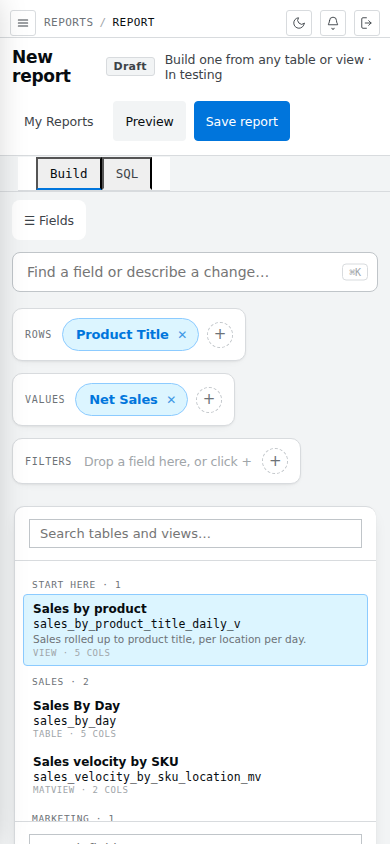
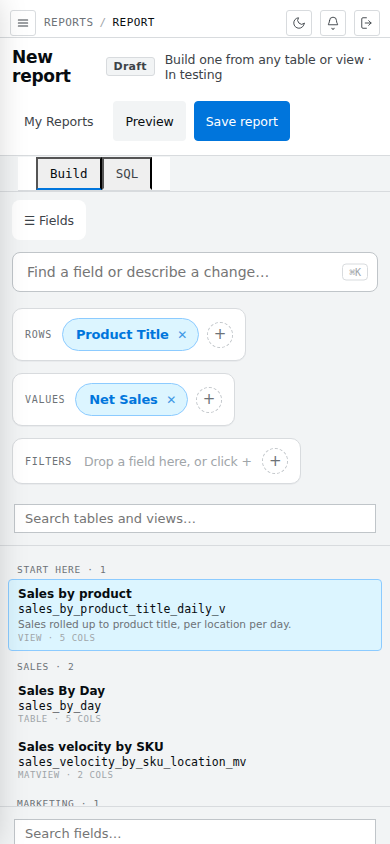
Report builder UX pass 4: flatten to match mockup density
Pass 3 over-corrected on "still looks unpolished" feedback by giving nearly
every section (rail, each of five rule editors individually, table, chart,
params) its own floating white card with a heavy two-layer shadow. Against
the reference mockups that reads busier and boxier, not calmer -- the
mockups separate sections with thin borders and whitespace, reserving any
shadow for one or two genuinely elevated surfaces.

This pass reverses that:
- .rb-card drops back to border + radius only, no shadow by default
  (.rb-card--lift kept for the rare case that still wants one)
- the rail goes back to a flat panel with a plain right border -- no card,
  no white background, no margin
- Summarise, Date range, Filters, Totals, Sort and the generated-SQL
  disclosure are consolidated into one .rb-editor-group panel with internal
  dividers, replacing five separately-shadowed boxes
- only the chip row and the chart card keep a hairline shadow
  (var(--bcn-shadow), beacon's own token -- not the two-layer mix)
- the results table is fully flat (no border, no shadow) so it reads as
  part of the canvas rather than another floating box

Full 37-suite v3 test run passes (one `dashboard` failure on the first pass
was a flake under load -- reran in isolation and in the full suite, both
green).

Screenshots in docs/ops/screenshots/report-builder-ux/ updated for this
pass; README's "what changed each pass" section extended to document why
pass 3 wasn't enough and what pass 4 changes.
[…]

Changed region(s): [[0.0308, 0.5853, 0.9846, 1.0], [0.9231, 0.6161, 0.9538, 0.6469]]

diff --git a/v3/dashboard.css b/v3/dashboard.css
@@ -403,17 +403,21 @@
    shadow" departure v3/README.md already documents for a dashboard tile,
    reused verbatim (including its exact shadow formula, mixed from
    --bcn-band so it stays theme-correct) rather than invented again here. */
-.rb-layout { flex: 1; min-height: 0; display: flex; gap: 14px; padding: 14px 14px 0; background: var(--bcn-sunken); }
-.rb-card {
-  background: var(--bcn-surface); border: 1px solid var(--bcn-border); border-radius: 10px;
-  box-shadow:
-    0 1px 2px color-mix(in srgb, var(--bcn-band) 6%, transparent),
-    0 6px 18px -8px color-mix(in srgb, var(--bcn-band) 18%, transparent);
-}
+.rb-layout { flex: 1; min-height: 0; display: flex; gap: 0; background: var(--bcn-sunken); }
+/* Flat by design, not by omission: the mockups this page is built from use
+   almost no shadow at all -- a 1px border and the white-card-on-light-canvas
+   contrast do the separating. The three-layer "card soup" the previous pass
+   built (rail, every collapsed editor, the table, parameters -- each its
+   own bordered box with a visible drop shadow) read as busy and uneven
+   precisely because there were so many of them, each announcing itself.
+   Only the chip boxes and the chart card keep any lift at all now, and it
+   is beacon's own hairline --bcn-shadow, not an invented one. */
+.rb-card { background: var(--bcn-surface); border: 1px solid var(--bcn-border); border-radius: 10px; }
+.rb-card--lift { box-shadow: var(--bcn-shadow); }
 
 .rb-rail {
-  width: 300px; flex-shrink: 0; display: flex; flex-direction: column;
-  min-height: 0; margin-bottom: 14px;
+  width: 280px; flex-shrink: 0; display: flex; flex-direction: column;
+  min-height: 0; border-right: 1px solid var(--bcn-border);
 }
 .rb-rail-head { padding: 12px 14px; border-bottom: 1px solid var(--bcn-border); flex-shrink: 0; }
 .rb-rail-list { flex: 1; min-height: 0; overflow-y: auto; padding: 8px; }
@@ -422,7 +426,7 @@
   padding: 7px 9px; border: 1px solid transparent; border-radius: var(--bcn-radius);
   background: transparent; cursor: pointer; font: inherit;
 }
-.rb-src:hover { background: var(--bcn-sunken); border-color: var(--bcn-border); }
+.rb-src:hover { background: var(--bcn-surface); border-color: var(--bcn-border); }
 .rb-src.is-active { background: var(--bcn-accent-soft); border-color: var(--bcn-accent-border); }
 .rb-src-name { font-family: var(--bcn-mono); font-size: 11.5px; color: var(--bcn-ink); word-break: break-all; }
 .rb-src-desc {
@@ -532,12 +536,13 @@
 /* The table gets the same card treatment as the chart above it, rather
    than sitting directly on the canvas -- two floating cards, not one card
    and one plain region. */
+/* Flat on purpose -- the chart above it is the one card in this section.
+   A second bordered, shadowed box immediately below it read as two tiles
+   stacked rather than one continuous preview; spacing (rb-preview-chart's
+   own margin-bottom) is what separates them instead. */
 .rb-preview-body {
-  flex: 1; min-height: 120px; overflow: auto; padding: 10px 16px 14px;
-  background: var(--bcn-surface); border: 1px solid var(--bcn-border); border-radius: 10px;
-  box-shadow:
-    0 1px 2px color-mix(in srgb, var(--bcn-band) 6%, transparent),
-    0 6px 18px -8px color-mix(in srgb, var(--bcn-band) 18%, transparent);
+  flex: 1; min-height: 120px; overflow: auto; padding: 4px 4px 14px;
+  background: var(--bcn-surface); border-radius: 10px;
 }
 .rb-preview-more { display: flex; align-items: center; gap: 10px; padding: 10px 0 2px; }
 
@@ -810,10 +815,7 @@
 .rb-chipgroup {
   display: flex; align-items: center; gap: 8px; flex-wrap: wrap;
   padding: 9px 12px; border-radius: 10px; border: 1px solid var(--bcn-border);
-  background: var(--bcn-surface); min-height: 44px;
-  box-shadow:
-    0 1px 2px color-mix(in srgb, var(--bcn-band) 5%, transparent),
-    0 4px 12px -8px color-mix(in srgb, var(--bcn-band) 14%, transparent);
+  background: var(--bcn-surface); min-height: 44px; box-shadow: var(--bcn-shadow);
 }
 .rb-chipgroup-label {
   font-family: var(--bcn-mono); font-size: 10px; text-transform: uppercase; letter-spacing: .07em;
@@ -857,51 +859,53 @@
 }
 .rb-details[open] summary::before { transform: rotate(90deg); }
 
-.rb-source-head { gap: 8px; padding: 14px 16px; }
+/* No card here -- the mockups this page follows show a plain title and an
+   expandable "Details" line, not a bordered box, for what is really just a
+   caption over the panel below it. */
+.rb-source-head { display: flex; flex-direction: column; gap: 6px; padding: 2px 2px 4px; }
 .rb-source-title { font-size: 15px; font-weight: 700; color: var(--bcn-ink); text-transform: none; letter-spacing: 0; }
+
+/* ── The one panel for everything else ─────────────────────────────────
+   Summarise, Date range, Filters, Totals, Sort/limit and the generated SQL
+   used to each be their own bordered, shadowed box -- five separate cards
+   stacked down the page, each announcing its own edge. They are one card
+   now: .rb-editor-group carries the single border/radius, and each row
+   (the always-visible Summarise toggle, then each collapsed <details>) is
+   divided from the next by a plain bottom border instead of a gap between
+   boxes. Closed by default the moment a chip already says what is inside
+   (renderBuild's secOpen()) -- the chip bar is where these are READ, this
+   is only where they are EDITED. */
+.rb-editor-group { display: flex; flex-direction: column; overflow: hidden; }
+.rb-editor-row { padding: 12px 14px; border-bottom: 1px solid var(--bcn-border); }
+.rb-editor-group > *:last-child { border-bottom: none; }
 .rb-summarise-toggle {
-  display: flex; align-items: center; gap: 8px; align-self: flex-start; cursor: pointer;
-  font-size: 13px; font-weight: 600; color: var(--bcn-ink); margin-top: 2px;
+  display: flex; align-items: center; gap: 8px; cursor: pointer;
+  font-size: 13px; font-weight: 600; color: var(--bcn-ink);
 }
 .rb-summarise-toggle input { width: 16px; height: 16px; accent-color: var(--bcn-accent); cursor: pointer; }
 
-/* ── Collapsed editors (Filters, Totals, Date range, Sort, SQL) ────────
-   Closed by default the moment there is a chip already saying what is in
-   them (renderBuild's secOpen()); the chip bar is where these are READ,
-   this is only where they are EDITED. Ordinary beacon density inside --
-   these are occasional-use, not the page's hero controls. */
-.rb-editor {
-  border: 1px solid var(--bcn-border); border-radius: 8px; background: var(--bcn-surface);
-  padding: 0; overflow: hidden;
-}
+.rb-editor { border-bottom: 1px solid var(--bcn-border); }
+.rb-editor:last-child { border-bottom: none; }
 .rb-editor summary {
   cursor: pointer; padding: 12px 14px; font-size: 12.5px; font-weight: 600; color: var(--bcn-ink-2);
-  list-style: none; display: flex; align-items: center; gap: 8px; border-radius: 10px;
+  list-style: none; display: flex; align-items: center; gap: 8px;
 }
 .rb-editor summary:hover { background: var(--bcn-sunken); }
-.rb-editor[open] summary:hover { background: transparent; }
 .rb-editor summary::-webkit-details-marker { display: none; }
 .rb-editor summary::before {
   content: '▸'; display: inline-block; font-size: 10px; color: var(--bcn-ink-4);
   transition: transform .12s ease; flex-shrink: 0;
 }
 .rb-editor[open] summary::before { transform: rotate(90deg); }
-.rb-editor[open] summary { border-bottom: 1px solid var(--bcn-border); border-radius: 10px 10px 0 0; }
+.rb-editor[open] summary { border-bottom: 1px solid var(--bcn-border); }
 .rb-editor-body { padding: 12px 14px 14px; display: flex; flex-direction: column; gap: 8px; }
 
-/* Nothing upstream of this ever gave #buildBody's own direct children any
-   vertical rhythm -- .rb-panes' gap is between #paneBuild and #paneSql, not
-   between what is inside #paneBuild. It went unnoticed while the field
-   cloud and always-open rows supplied their own visual bulk; collapsed
-   <details> supply almost none, so a plain stack of them reads as one
-   cramped block with no breathing room between "sections" that are, in
-   fact, unrelated controls. */
-/* Capped rather than stretched to .rb-main's full width: an editor's
-   content (two dropdowns, a handful of rule rows) is nowhere near as wide
-   as the space next to the rail, and a full-width white card around that
-   little content read as a mostly-empty box. The rest of the canvas stays
-   visible beside it instead. */
-#buildBody { display: flex; flex-direction: column; gap: 12px; max-width: 640px; }
+/* Capped rather than stretched to .rb-main's full width: the panel's
+   content (a toggle, a couple of dropdowns, a handful of rule rows) is
+   nowhere near as wide as the space next to the rail, and a full-width
+   white card around that little content read as a mostly-empty box. The
+   rest of the canvas stays visible beside it instead. */
+#buildBody { display: flex; flex-direction: column; gap: 16px; max-width: 640px; }
 
 .rb-rail.is-collapsed { width: 0; border: none; margin: 0; box-shadow: none; overflow: hidden; }
 .rb-field-browser { border-top: 1px solid var(--bcn-border); display: flex; flex-direction: column; min-height: 0; flex: 1; }
@@ -911,7 +915,7 @@
   padding: 6px 9px; border: 1px solid transparent; border-radius: var(--bcn-radius-sm);
   background: transparent; cursor: pointer; font: inherit; font-size: 12px; color: var(--bcn-ink-2);
 }
-.rb-field-row:hover { background: var(--bcn-sunken); border-color: var(--bcn-border); }
+.rb-field-row:hover { background: var(--bcn-surface); border-color: var(--bcn-border); }
 .rb-field-row.is-on { color: var(--bcn-accent); background: var(--bcn-accent-soft); }
 .rb-field-icon {
   font-family: var(--bcn-mono); font-size: 10px; color: var(--bcn-ink-4); width: 16px; text-align: center; flex-shrink: 0;
@@ -957,9 +961,7 @@
   flex: 1 1 340px; min-height: 260px; margin-bottom: 14px; padding: 14px 16px 10px;
   display: flex; flex-direction: column; gap: 8px;
   background: var(--bcn-surface); border: 1px solid var(--bcn-border); border-radius: 10px;
-  box-shadow:
-    0 1px 2px color-mix(in srgb, var(--bcn-band) 6%, transparent),
-    0 6px 18px -8px color-mix(in srgb, var(--bcn-band) 18%, transparent);
+  box-shadow: var(--bcn-shadow);
 }
 .rb-preview-chart[hidden] { display: none; }
 .rb-preview-chart .dw-chart { flex: 1; min-height: 0; }

diff --git a/v3/js/report-builder-ui.js b/v3/js/report-builder-ui.js
@@ -215,8 +215,8 @@
 
     el('buildBody').innerHTML = `
       ${mvNote}
-      <div class="rb-section rb-source-head rb-card">
-        <span class="rb-section-title rb-source-title">${esc(RB.friendlyRelName(source.relname))}</span>
+      <div class="rb-source-head">
+        <span class="rb-source-title">${esc(RB.friendlyRelName(source.relname))}</span>
         <details class="rb-details">
           <summary>${source.description
             ? esc(source.description.split(/(?<=[.!?])\s+/)[0]) + (/[.!?]\s+\S/.test(source.description) ? ' — details' : '')
@@ -224,85 +224,95 @@
           ${source.description ? `<p class="rb-note">${esc(source.description)}</p>` : ''}
           <span class="rb-note rb-mono-hint">${esc(source.relname)} · ${esc(source.relkind)}</span>
         </details>
-        <label class="rb-summarise-toggle">
-          <input type="checkbox" id="chkSummarise" ${cfg.summarise ? 'checked' : ''} />
-          <span>Summarise (group and total)</span>
-        </label>
       </div>
 
-      ${dateCols().length ? `
-      <details class="rb-editor" id="secDate"${dateOpen ? ' open' : ''}>
-        <summary>Date range${cfg.dateColumn ? ` · ${esc((RB.DATE_RANGES.find((r) => r.id === cfg.dateRange) || {}).label || 'custom')}` : ' · none'}</summary>
-        <div class="rb-editor-body">
-          <div class="rb-row">
-            <div class="bcn-field-group">
-              <label class="bcn-label" for="selDateCol">Date column</label>
-              <select class="bcn-field" id="selDateCol">${opts(dateCols(), cfg.dateColumn, 'None')}</select>
+      <!-- One bordered panel for every remaining control, rather than each
+           getting its own floating card -- Summarise is this panel's own
+           always-visible first row, and everything below it is a collapsed
+           <details> sharing the same border instead of five separate boxes
+           each announcing themselves with their own edge and shadow. -->
+      <div class="rb-editor-group rb-card">
+        <div class="rb-editor-row">
+          <label class="rb-summarise-toggle">
+            <input type="checkbox" id="chkSummarise" ${cfg.summarise ? 'checked' : ''} />
+            <span>Summarise (group and total)</span>
+          </label>
+        </div>
+
+        ${dateCols().length ? `
+        <details class="rb-editor" id="secDate"${dateOpen ? ' open' : ''}>
+          <summary>Date range${cfg.dateColumn ? ` · ${esc((RB.DATE_RANGES.find((r) => r.id === cfg.dateRange) || {}).label || 'custom')}` : ' · none'}</summary>
+          <div class="rb-editor-body">
+            <div class="rb-row">
+              <div class="bcn-field-group">
+                <label class="bcn-label" for="selDateCol">Date column</label>
+                <select class="bcn-field" id="selDateCol">${opts(dateCols(), cfg.dateColumn, 'None')}</select>
+              </div>
+              <div class="bcn-field-group">
+                <label class="bcn-label" for="selDateRange">Range</label>
+                <select class="bcn-field" id="selDateRange">
+                  ${RB.DATE_RANGES.map((r) => `<option value="${r.id}"${r.id === cfg.dateRange ? ' selected' : ''}>${esc(r.label)}</option>`).join('')}
+                </select>
+              </div>
             </div>
-            <div class="bcn-field-group">
-              <label class="bcn-label" for="selDateRange">Range</label>
-              <select class="bcn-field" id="selDateRange">
-                ${RB.DATE_RANGES.map((r) => `<option value="${r.id}"${r.id === cfg.dateRange ? ' selected' : ''}>${esc(r.label)}</option>`).join('')}
-              </select>
+            ${!cfg.dateColumn ? '<p class="rb-note">No date window yet — pick a column and a range on purpose. Nothing is filtered by default.</p>' : ''}
+          </div>
+        </details>` : ''}
+
+        <details class="rb-editor" id="secFilters"${filtersOpen ? ' open' : ''}>
+          <summary>Filters${cfg.filters.length ? ` · ${cfg.filters.length}` : ''}</summary>
+          <div class="rb-editor-body">
+            ${filterRows || '<p class="rb-note">No filters.</p>'}
+            <button type="button" class="bcn-btn bcn-btn--ghost" id="btnAddFilter" style="align-self:flex-start">+ Add a filter</button>
+          </div>
+        </details>
+
+        ${cfg.summarise ? `
+        <details class="rb-editor" id="secMeasures"${measuresOpen ? ' open' : ''}>
+          <summary>Totals${cfg.measures.length ? ` · ${cfg.measures.length}` : ''}</summary>
+          <div class="rb-editor-body">
+            ${measureRows || '<p class="rb-note">No totals yet — add one.</p>'}
+            <div class="rb-row">
+              <button type="button" class="bcn-btn bcn-btn--ghost" id="btnAddMeasure">+ Add a total</button>
+              <button type="button" class="bcn-btn bcn-btn--ghost" id="btnAddCalc">+ Add a calculation</button>
+            </div>
+            <p class="rb-note">A calculation is one total over another — ROAS is sales ÷ spend, and no column holds it.
+              Division is guarded, so a zero denominator leaves the cell empty rather than failing the query.</p>
+          </div>
+        </details>` : ''}
+
+        <details class="rb-editor" id="secSort">
+          <summary>Sort and limit</summary>
+          <div class="rb-editor-body">
+            <div class="rb-row">
+              <div class="bcn-field-group">
+                <label class="bcn-label" for="selSort">Sort by</label>
+                <select class="bcn-field" id="selSort">
+                  ${opts(cfg.summarise ? cols.map((c) => c.name).concat(aliasList) : cols, cfg.sortColumn, 'Query order')}
+                </select>
+              </div>
+              <div class="bcn-field-group">
+                <label class="bcn-label" for="selSortDir">Direction</label>
+                <select class="bcn-field" id="selSortDir">
+                  <option value="desc"${cfg.sortDir === 'desc' ? ' selected' : ''}>Highest first</option>
+                  <option value="asc"${cfg.sortDir === 'asc' ? ' selected' : ''}>Lowest first</option>
+                </select>
+              </div>
+              <div class="bcn-field-group">
+                <label class="bcn-label" for="inpLimit">Limit</label>
+                <input class="bcn-field bcn-field--mono" id="inpLimit" type="number" min="0" max="1000" value="${Number(cfg.limit) || 0}" />
+              </div>
             </div>
           </div>
-          ${!cfg.dateColumn ? '<p class="rb-note">No date window yet — pick a column and a range on purpose. Nothing is filtered by default.</p>' : ''}
-        </div>
-      </details>` : ''}
+        </details>
 
-      <details class="rb-editor" id="secFilters"${filtersOpen ? ' open' : ''}>
-        <summary>Filters${cfg.filters.length ? ` · ${cfg.filters.length}` : ''}</summary>
-        <div class="rb-editor-body">
-          ${filterRows || '<p class="rb-note">No filters.</p>'}
-          <button type="button" class="bcn-btn bcn-btn--ghost" id="btnAddFilter" style="align-self:flex-start">+ Add a filter</button>
-        </div>
-      </details>
-
-      ${cfg.summarise ? `
-      <details class="rb-editor" id="secMeasures"${measuresOpen ? ' open' : ''}>
-        <summary>Totals${cfg.measures.length ? ` · ${cfg.measures.length}` : ''}</summary>
-        <div class="rb-editor-body">
-          ${measureRows || '<p class="rb-note">No totals yet — add one.</p>'}
-          <div class="rb-row">
-            <button type="button" class="bcn-btn bcn-btn--ghost" id="btnAddMeasure">+ Add a total</button>
-            <button type="button" class="bcn-btn bcn-btn--ghost" id="btnAddCalc">+ Add a calculation</button>
+        <details class="rb-editor" id="secGenSql">
+          <summary>SQL this generates</summary>
+          <div class="rb-editor-body">
+            <pre class="rb-generated" id="genSql">${esc(RB.buildSql(source, cfg) || '-- choose at least one total to summarise')}</pre>
           </div>
-          <p class="rb-note">A calculation is one total over another — ROAS is sales ÷ spend, and no column holds it.
-            Division is guarded, so a zero denominator leaves the cell empty rather than failing the query.</p>
-        </div>
-      </details>` : ''}
-
-      <details class="rb-editor" id="secSort">
-        <summary>Sort and limit</summary>
-        <div class="rb-editor-body">
-          <div class="rb-row">
-            <div class="bcn-field-group">
-              <label class="bcn-label" for="selSort">Sort by</label>
-              <select class="bcn-field" id="selSort">
-                ${opts(cfg.summarise ? cols.map((c) => c.name).concat(aliasList) : cols, cfg.sortColumn, 'Query order')}
-              </select>
-            </div>
-            <div class="bcn-field-group">
-              <label class="bcn-label" for="selSortDir">Direction</label>
-              <select class="bcn-field" id="selSortDir">
-                <option value="desc"${cfg.sortDir === 'desc' ? ' selected' : ''}>Highest first</option>
-                <option value="asc"${cfg.sortDir === 'asc' ? ' selected' : ''}>Lowest first</option>
-              </select>
-            </div>
-            <div class="bcn-field-group">
-              <label class="bcn-label" for="inpLimit">Limit</label>
-              <input class="bcn-field bcn-field--mono" id="inpLimit" type="number" min="0" max="1000" value="${Number(cfg.limit) || 0}" />
-            </div>
-          </div>
-        </div>
-      </details>
-
-      <details class="rb-editor" id="secGenSql">
-        <summary>SQL this generates</summary>
-        <div class="rb-editor-body">
-          <pre class="rb-generated" id="genSql">${esc(RB.buildSql(source, cfg) || '-- choose at least one total to summarise')}</pre>
-        </div>
-      </details>`;
+        </details>
+      </div>`;
     // toggle does not reliably bubble, so each <details> gets its own
     // listener rather than one delegated on #buildBody -- there are at
     // most six of these, so the cost of re-attaching every render is nothing.

diff --git a/v3/report-builder.html b/v3/report-builder.html
@@ -70,7 +70,7 @@
     <div class="rb-layout">
       <!-- Source browser: silo_chat_schema_catalog, which already exists to
            feed Ask SILO and works just as well as a picker. -->
-      <aside class="rb-rail rb-card" id="railPanel">
+      <aside class="rb-rail" id="railPanel">
         <div class="rb-rail-head">
           <input class="bcn-field" id="srcSearch" type="search" placeholder="Search tables and views…" />
         </div>

diff --git a/docs/ops/screenshots/report-builder-ux/README.md b/docs/ops/screenshots/report-builder-ux/README.md
@@ -9,7 +9,7 @@ grouped by product title, summed to Net Sales — rendered by the real
 `/v3/report-builder.html` against the test suite's stubbed Supabase. No real
 company data is in any of them; the two rows in the preview are fixture rows.
 
-This went through three passes, each landing after the previous one was
+This went through four passes, each landing after the previous one was
 reviewed and found wanting. Recorded here rather than squashed away, because
 "what did we already try and why wasn't it enough" is exactly the thing a
 screenshot folder should answer a year from now.
@@ -17,16 +17,17 @@ screenshot folder should answer a year from now.
 | File | What it shows |
 |---|---|
 | `before-desktop.png` | origin/main. One always-open form: a raw relname list with no grouping beyond kind, a field cloud with a `text`/`numeric`/`bigint` badge on every row, every measure/filter row always expanded, and — a bug this PR also fixes — a measure row whose `select`s each claimed the full row width and wrapped onto five stacked lines instead of one. Everything flush against hairline borders, no depth, no grouping. Table-only preview. |
-| `after-desktop.png` | The same, configured report, current state. A large Rows/Values/Filters chip bar reading straight off the config (`Net Sales`, not `Sum of Net Sales` — the aggregation is implicit unless it's non-default); the field-type grid gone in favour of the rail's field browser (icon instead of a badge); Totals/Filters/Date/Sort/SQL collapsed behind a labelled chevron, opening only while empty or just edited; a segmented Chart/Table control; a titled chart card above a table card. The page reads as a set of floating cards on a light canvas — border-radius, a two-layer soft shadow, real gaps between them — reusing the exact shadow formula `v3/README.md` already documents for a dashboard tile, rather than the flush hairline-bordered strips of passes one and two. |
-| `after-desktop-empty.png` | The same source, nothing configured yet. Compact by default: Date range and Filters sit open only because they are genuinely empty (a rolling window or a filter picked "by default" was the exact thing item 5 of the brief called out as misleading), the field browser and chips are the only place a field is added, and the whole build side settles into a handful of short cards instead of one long form. |
-| `after-desktop-sql.png` | The SQL tab. The generated SQL sits in its own wider card (code wants room a chip list does not), with Run query beside it — this is the "collapsible, resizable dock" from item 4, styled to read as one now rather than a plain textarea in a tab pane. |
-| `before-phone.png` / `after-phone.png` | 390px. The rail's height cap was sized for a bare source list; adding the field browser without also bounding it independently made rail content spill past its box and overlap the page below it — fixed by giving the source list and the field browser their own scrollports. The after state also shows the chip bar stacking into full-width cards rather than wrapping awkwardly. |
+| `after-desktop.png` | The same, configured report, current state (pass 4). A Rows/Values/Filters chip bar reading straight off the config (`Net Sales`, not `Sum of Net Sales` — the aggregation is implicit unless it's non-default); the field-type grid gone in favour of the rail's field browser (icon instead of a badge); Summarise/Totals/Filters/Date/Sort/SQL now live in **one bordered panel** with a divider between each row, rather than as separate floating cards; a segmented Chart/Table control; a chart card above a flat table. The canvas is flat and quiet — a plain gray background, thin borders, one hairline shadow reserved for the chip row and the chart — matching the calmer, less boxy density of the mockups rather than pass 3's stack of individually-shadowed cards. |
+| `after-desktop-empty.png` | The same source, nothing configured yet. Compact by default: Date range and Filters sit open only because they are genuinely empty (a rolling window or a filter picked "by default" was the exact thing item 5 of the brief called out as misleading), the field browser and chips are the only place a field is added, and the whole build side settles into one short panel instead of one long form or a stack of separate cards. |
+| `after-desktop-sql.png` | The SQL tab. The generated SQL sits in its own wider, flat card (code wants room a chip list does not), with Run query beside it — this is the "collapsible, resizable dock" from item 4, styled to read as one calm surface rather than a plain textarea in a tab pane or a heavily-shadowed box. |
+| `before-phone.png` / `after-phone.png` | 390px. The rail's height cap was sized for a bare source list; adding the field browser without also bounding it independently made rail content spill past its box and overlap the page below it — fixed by giving the source list and the field browser their own scrollports. The after state also shows the chip bar stacking into full-width cards rather than wrapping awkwardly, and the flat single-panel editor group carrying over cleanly to a narrow screen. |
 
 ## What changed each pass, briefly
 
 1. **Pass 1** added the chip bar, field browser, command search, chart-above-table preview, and the friendly/grouped rail — but left the original always-open field-type grid and rule editors in place underneath the chips, so the page still read as the same dense form with a summary bar bolted on top.
 2. **Pass 2** removed the field-type grid (the rail's field browser replaced it), collapsed Totals/Filters/Date/Sort/SQL behind `<details>`, and dropped the "Sum of" verbosity from chip text — the right structural change, but styled with the same flush hairline borders and dashed boxes as the rest of beacon's dense form chrome, so it still read as unpolished.
-3. **Pass 3** (current) is a visual pass on top of pass 2's structure: floating cards with real shadows and radius instead of bordered strips, a proper segmented Chart/Table control instead of a text-link toggle, hover states that are actually visible against a white card, reorder arrows that only render once there is something to reorder, and the removal of a status banner that had nothing to do with the new layout.
+3. **Pass 3** was a visual pass on top of pass 2's structure: floating cards with real shadows and radius instead of bordered strips, a proper segmented Chart/Table control instead of a text-link toggle, hover states that are actually visible against a white card, reorder arrows that only render once there is something to reorder, and the removal of a status banner that had nothing to do with the new layout. Feedback after this pass: still reads as "horrible spacing," not smooth, not close enough to the mockup layout — pass 3 had over-corrected by giving nearly every section (rail, each of five editors individually, table, chart, params) its own floating white card with a heavy two-layer shadow, which reads as busier and boxier than either mockup.
+4. **Pass 4** (current) reverses that: `.rb-card` drops back to a border + radius with no shadow by default (a `.rb-card--lift` variant exists for the rare case that still wants one); the rail goes back to a flat panel with a plain right border, no card, no white background; Summarise, Date range, Filters, Totals, Sort and the generated-SQL disclosure are consolidated into **one** `.rb-editor-group` panel with internal dividers instead of five separate shadowed boxes; only the chip row and the chart card keep a hairline shadow (`var(--bcn-shadow)`, beacon's own token, not the two-layer mix); the results table is fully flat (no border, no shadow) so it reads as part of the canvas rather than another floating box. The result matches the mockups' calmer, border-led separation instead of stacking many individually-elevated cards.
 
 ## Regenerating
 
